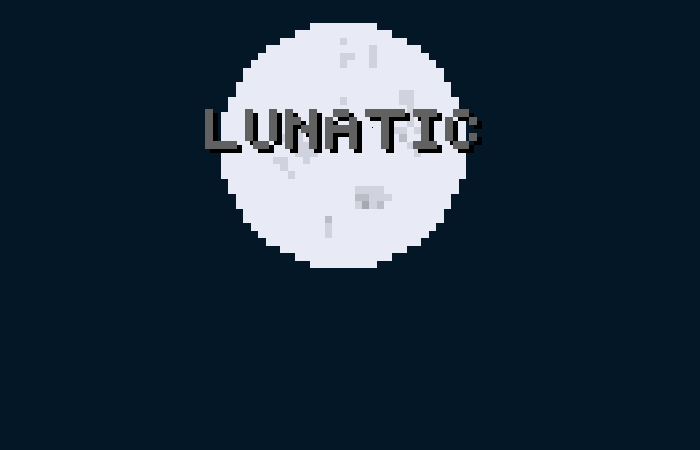
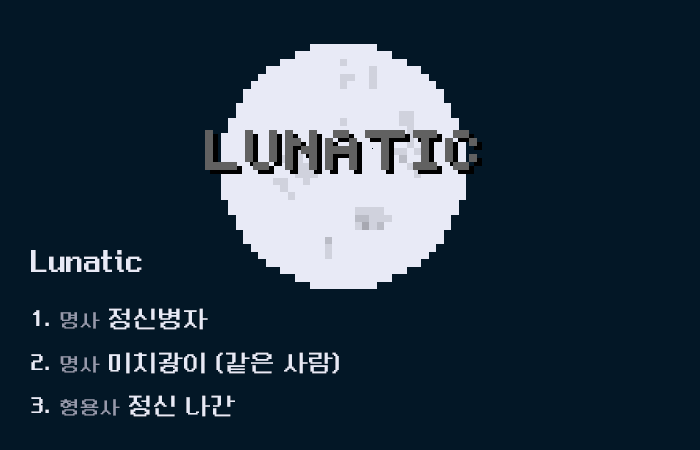
엔딩 장면 수정

diff --git a/Lunatic/src/application/Main.java b/Lunatic/src/application/Main.java
@@ -25,15 +25,15 @@ public class Main extends Application {
 //			loader.setLocation(getClass().getResource("/story/Ending.fxml"));
 //			loader.setLocation(getClass().getResource("/story/StoryScene.fxml"));
 //			loader.setLocation(getClass().getResource("/story/StoryScene2.fxml"));
-			loader.setLocation(getClass().getResource("/story/Root1.fxml")); 
+//			loader.setLocation(getClass().getResource("/story/Root1.fxml")); 
 //			loader.setLocation(getClass().getResource("/story/Root2.fxml")); 
 //			loader.setLocation(getClass().getResource("/store/StoreScene.fxml"));
 //			loader.setLocation(getClass().getResource("/store/StoreScene2.fxml")); 
-//			loader.setLocation(getClass().getResource("/work/Ending.fxml"));
+			loader.setLocation(getClass().getResource("/work/Ending.fxml"));
 			AnchorPane root = (AnchorPane)loader.load();
 			
-			Scene scene = new Scene(root,1200,800);
-//			Scene scene = new Scene(root, 700, 450);
+//			Scene scene = new Scene(root,1200,800);
+			Scene scene = new Scene(root, 700, 450);
 			
 			scene.getStylesheets().add(getClass().getResource("application.css").toExternalForm());
 			primaryStage.setTitle("Lunatic");
